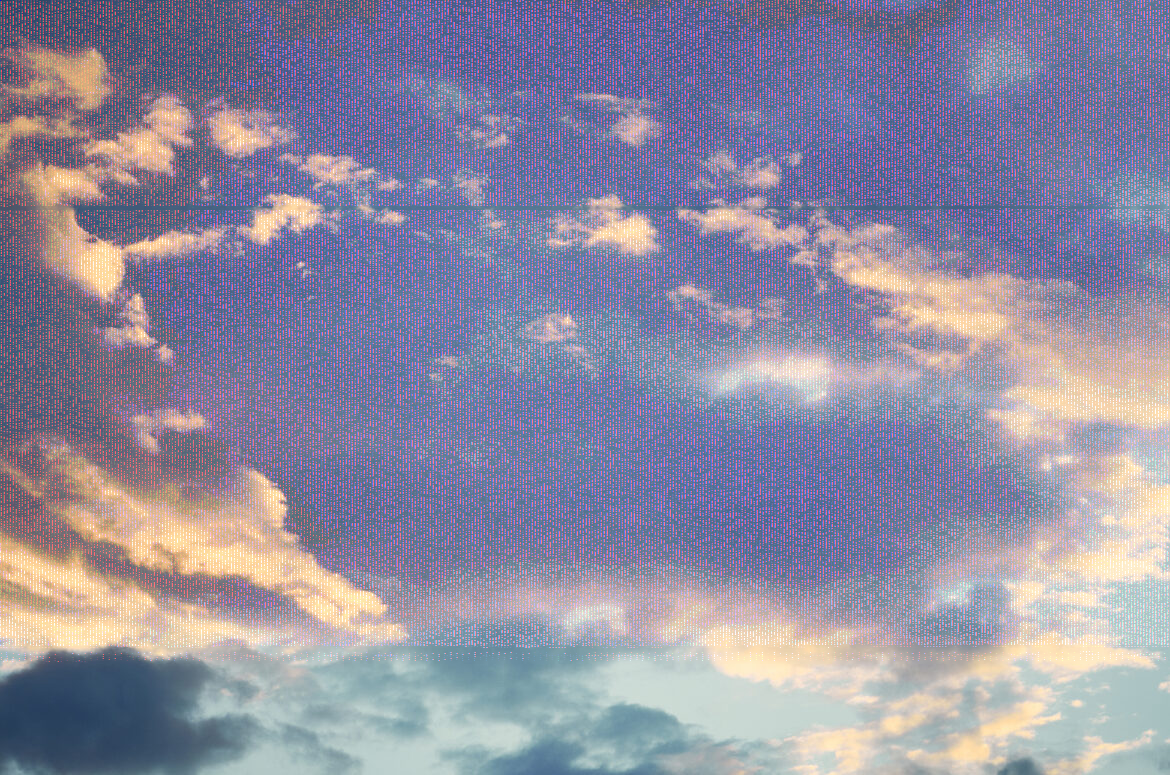
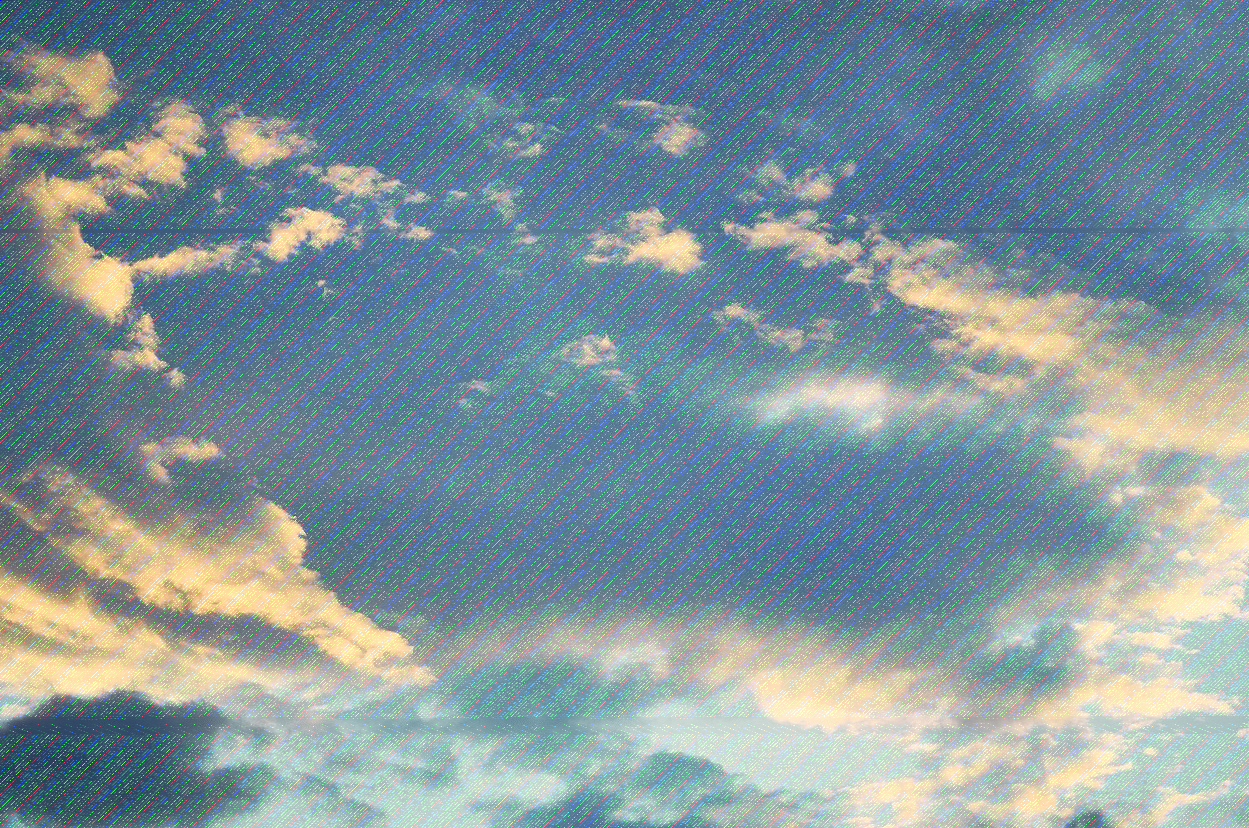
skip alpha and add uniformize

diff --git a/src/main.cpp b/src/main.cpp
@@ -154,8 +154,9 @@ void encode(const Image& img, const File& file) {
     size_t target_size = file.size();
     // 4 bits per pixel
     size_t n_pixels = img.size() / img.compSize();
+    size_t alpha_count = n_pixels / 4;
     // 1 pixel for the header (32 bits)
-    size_t available_size = n_pixels / 8 - 1;
+    size_t available_size = n_pixels / 2 - 1 - alpha_count;
 
     std::cout << "Target size " << target_size << "\n";
     std::cout << "Available size " << available_size << "\n";
@@ -174,10 +175,16 @@ void encode(const Image& img, const File& file) {
     img.content[p++] = target_size >> 8;
     img.content[p++] = target_size >> 0;
     // body
-    for (size_t i = 0; i < target_size; i++) {
-        int offset = 8;
-        while(offset >= 0)
-            writeOffset(img.content + p++, file.content[i], offset--);
+    // note: add redundancy to uniformize the noise
+    while(true) {
+        for (size_t i = 0; i < target_size; i++) {
+            int offset = 7;
+            while(offset >= 0) {
+                if (p >= img.size()) return; // stop redundancy
+                if (p % 4 == 0 && p > 0) p++; // skip alpha
+                writeOffset(img.content + p++, file.content[i], offset--);
+            }
+        }
     }
 }
 
@@ -194,9 +201,11 @@ void decode(const Image& img, File& file) {
     file.allocate(target_size);
     for (size_t i = 0; i < target_size; i++) {
         file.content[i] = 0;
-        int offset = 8;
-        while(offset >= 0)
+        int offset = 7;
+        while(offset >= 0) {
+            if (p % 4 == 0 && p > 0) p++; // skip alpha
             readOffset(img.content + p++, file.content + i, offset--);
+        }
     }
 }
 
